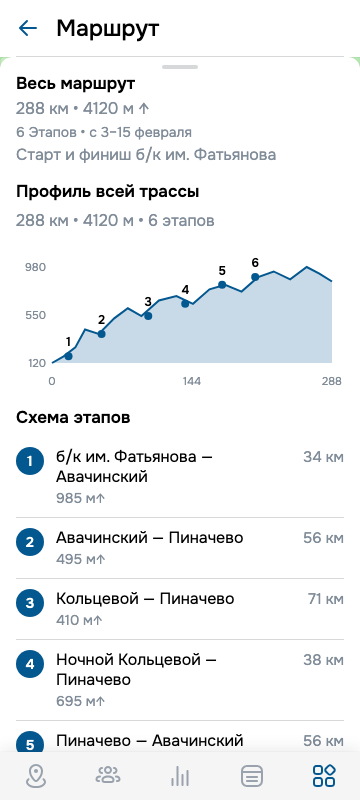
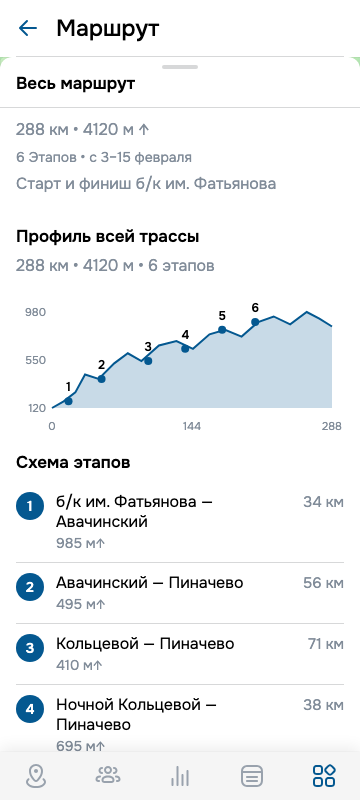
fix(v2): свёрнутая шторка Маршрута по контенту
Нижний снап по замеру peek-блока, Separator под заголовком, 12px снизу без лишнего padding.

diff --git a/src/components/route/RouteSheet.tsx b/src/components/route/RouteSheet.tsx
@@ -1,4 +1,4 @@
-import { Accordion, Subhead, Text, Title } from '@vkontakte/vkui'
+import { Accordion, Separator, Subhead, Text, Title } from '@vkontakte/vkui'
 import { useCallback, useEffect, useLayoutEffect, useRef, useState, type RefObject } from 'react'
 import type { RouteMapFilter, RouteSheetSnap } from '../../api/mocks/route.ts'
 import {
@@ -10,22 +10,32 @@ import {
 } from '../../api/mocks/route.ts'
 import { ElevationProfile } from './ElevationProfile.tsx'
 
-const SNAP_RATIO: Record<RouteSheetSnap, number> = {
-  collapsed: 0.22,
-  half: 0.5,
-  full: 1,
+const HALF_RATIO = 0.5
+
+function halfHeight(maxH: number): number {
+  return Math.round(maxH * HALF_RATIO)
 }
 
-function snapHeight(snap: RouteSheetSnap, maxH: number): number {
-  return Math.round(maxH * SNAP_RATIO[snap])
+function snapHeight(snap: RouteSheetSnap, maxH: number, collapsedH: number): number {
+  if (snap === 'collapsed') {
+    return Math.min(collapsedH, maxH)
+  }
+  if (snap === 'half') {
+    return halfHeight(maxH)
+  }
+  return maxH
 }
 
-function nearestSnap(visibleH: number, maxH: number): RouteSheetSnap {
-  const options: RouteSheetSnap[] = ['collapsed', 'half', 'full']
+function nearestSnap(visibleH: number, maxH: number, collapsedH: number): RouteSheetSnap {
+  const options: { snap: RouteSheetSnap; h: number }[] = [
+    { snap: 'collapsed', h: snapHeight('collapsed', maxH, collapsedH) },
+    { snap: 'half', h: snapHeight('half', maxH, collapsedH) },
+    { snap: 'full', h: snapHeight('full', maxH, collapsedH) },
+  ]
   let best: RouteSheetSnap = 'collapsed'
   let bestDelta = Number.POSITIVE_INFINITY
-  for (const snap of options) {
-    const delta = Math.abs(snapHeight(snap, maxH) - visibleH)
+  for (const { snap, h } of options) {
+    const delta = Math.abs(h - visibleH)
     if (delta < bestDelta) {
       bestDelta = delta
       best = snap
@@ -34,21 +44,27 @@ function nearestSnap(visibleH: number, maxH: number): RouteSheetSnap {
   return best
 }
 
-function snapFromVelocity(visibleH: number, velocityPxPerMs: number, maxH: number): RouteSheetSnap {
+function snapFromVelocity(
+  visibleH: number,
+  velocityPxPerMs: number,
+  maxH: number,
+  collapsedH: number,
+): RouteSheetSnap {
   const threshold = 0.35
+  const halfH = snapHeight('half', maxH, collapsedH)
   if (velocityPxPerMs > threshold) {
-    if (visibleH > snapHeight('half', maxH)) {
+    if (visibleH > halfH) {
       return 'half'
     }
     return 'collapsed'
   }
   if (velocityPxPerMs < -threshold) {
-    if (visibleH < snapHeight('half', maxH)) {
+    if (visibleH < halfH) {
       return 'half'
     }
     return 'full'
   }
-  return nearestSnap(visibleH, maxH)
+  return nearestSnap(visibleH, maxH, collapsedH)
 }
 
 type RouteSheetProps = {
@@ -74,13 +90,16 @@ function readTabbarTotalPx(): number {
 
 export function RouteSheet({ mapFilter, initialSnap, viewportRef, headerRef }: RouteSheetProps) {
   const [maxH, setMaxH] = useState(480)
+  const [collapsedH, setCollapsedH] = useState(160)
   const [snap, setSnap] = useState<RouteSheetSnap>(initialSnap ?? 'collapsed')
-  const [visibleH, setVisibleH] = useState(() => Math.round(480 * SNAP_RATIO.collapsed))
+  const [visibleH, setVisibleH] = useState(160)
   const [dragging, setDragging] = useState(false)
   const visibleRef = useRef(visibleH)
   visibleRef.current = visibleH
   const dragRef = useRef<{ startY: number; startVisible: number } | null>(null)
   const moveHistory = useRef<{ t: number; y: number }[]>([])
+  const grabRef = useRef<HTMLDivElement>(null)
+  const peekRef = useRef<HTMLDivElement>(null)
 
   useLayoutEffect(() => {
     const viewport = viewportRef.current
@@ -110,12 +129,28 @@ export function RouteSheet({ mapFilter, initialSnap, viewportRef, headerRef }: R
     }
   }, [viewportRef, headerRef])
 
+  useLayoutEffect(() => {
+    const grab = grabRef.current
+    const peek = peekRef.current
+    if (!grab || !peek) {
+      return
+    }
+    const measureCollapsed = () => {
+      setCollapsedH(grab.offsetHeight + peek.offsetHeight)
+    }
+    measureCollapsed()
+    const observer = new ResizeObserver(measureCollapsed)
+    observer.observe(grab)
+    observer.observe(peek)
+    return () => observer.disconnect()
+  }, [mapFilter])
+
   const applySnap = useCallback(
     (next: RouteSheetSnap) => {
       setSnap(next)
-      setVisibleH(snapHeight(next, maxH))
+      setVisibleH(snapHeight(next, maxH, collapsedH))
     },
-    [maxH],
+    [maxH, collapsedH],
   )
 
   useEffect(() => {
@@ -125,10 +160,10 @@ export function RouteSheet({ mapFilter, initialSnap, viewportRef, headerRef }: R
   }, [initialSnap, applySnap])
 
   useEffect(() => {
-    setVisibleH(snapHeight(snap, maxH))
-  }, [maxH, snap])
+    setVisibleH(snapHeight(snap, maxH, collapsedH))
+  }, [maxH, collapsedH, snap])
 
-  const minVisible = snapHeight('collapsed', maxH)
+  const minVisible = snapHeight('collapsed', maxH, collapsedH)
   const maxVisible = maxH
   const offsetY = maxH - visibleH
 
@@ -168,7 +203,7 @@ export function RouteSheet({ mapFilter, initialSnap, viewportRef, headerRef }: R
         velocity = (last.y - first.y) / dt
       }
     }
-    applySnap(snapFromVelocity(visibleRef.current, velocity, maxH))
+    applySnap(snapFromVelocity(visibleRef.current, velocity, maxH, collapsedH))
   }
 
   const isAll = mapFilter === 'all'
@@ -199,23 +234,43 @@ export function RouteSheet({ mapFilter, initialSnap, viewportRef, headerRef }: R
       }}
       {...(snap !== 'full' ? dragProps : {})}
     >
-      <div
-        className="route-sheet__grab"
-        {...(snap === 'full' ? dragProps : {})}
-      >
+      <div ref={grabRef} className="route-sheet__grab" {...(snap === 'full' ? dragProps : {})}>
         <span className="route-sheet__grab-bar" aria-hidden />
       </div>
-      <div className="route-sheet__scroll">
+      <div ref={peekRef} className="route-sheet__peek">
         {isAll ? (
           <>
             <Title level="3" className="route-sheet__title">
               {routeAllSummary.title}
             </Title>
-            <Text className="route-sheet__stats">
-              {routeAllSummary.distanceKm} км • {routeAllSummary.elevationGainM} м ↑
-            </Text>
-            <Subhead className="route-sheet__meta">{routeAllSummary.stagesLabel}</Subhead>
-            <Text className="route-sheet__subtitle">{routeAllSummary.subtitle}</Text>
+            <Separator className="route-sheet__title-separator" />
+            <div className="route-sheet__peek-stats">
+              <Text className="route-sheet__stats route-sheet__stats--primary">
+                {routeAllSummary.distanceKm} км • {routeAllSummary.elevationGainM} м ↑
+              </Text>
+              <Subhead className="route-sheet__meta">{routeAllSummary.stagesLabel}</Subhead>
+              <Text className="route-sheet__subtitle">{routeAllSummary.subtitle}</Text>
+            </div>
+          </>
+        ) : stage && stageDetail ? (
+          <>
+            <Title level="3" className="route-sheet__title">
+              {stageDetail.headline}
+            </Title>
+            <Separator className="route-sheet__title-separator" />
+            <div className="route-sheet__peek-stats">
+              <Text className="route-sheet__stats route-sheet__stats--primary">
+                {stageDetail.distanceKm} км • {stageDetail.elevationGainM} м ↑
+              </Text>
+              <Text className="route-sheet__subtitle">{stageDetail.startLabel}</Text>
+              <Text className="route-sheet__subtitle">{stageDetail.finishLabel}</Text>
+            </div>
+          </>
+        ) : null}
+      </div>
+      <div className="route-sheet__scroll">
+        {isAll ? (
+          <>
             {showProfile ? (
               <section className="route-sheet__section">
                 <Title level="3" className="route-sheet__section-title">
@@ -251,14 +306,6 @@ export function RouteSheet({ mapFilter, initialSnap, viewportRef, headerRef }: R
           </>
         ) : stage && stageDetail ? (
           <>
-            <Title level="3" className="route-sheet__title">
-              {stageDetail.headline}
-            </Title>
-            <Text className="route-sheet__stats">
-              {stageDetail.distanceKm} км • {stageDetail.elevationGainM} м ↑
-            </Text>
-            <Text className="route-sheet__subtitle">{stageDetail.startLabel}</Text>
-            <Text className="route-sheet__subtitle">{stageDetail.finishLabel}</Text>
             {showProfile ? (
               <section className="route-sheet__section">
                 <Title level="3" className="route-sheet__section-title">

diff --git a/src/index.css b/src/index.css
@@ -394,14 +394,37 @@ body {
   background: var(--vkui--color_separator_primary);
 }
 
+.route-sheet__peek {
+  flex: none;
+  padding: 0 16px 12px;
+}
+
 .route-sheet__scroll {
   flex: 1;
   min-height: 0;
-  padding: 0 16px 16px;
+  padding: 0 16px;
+}
+
+.route-sheet--full .route-sheet__scroll {
+  padding-bottom: 16px;
 }
 
 .route-sheet__title {
-  margin: 0 0 4px;
+  margin: 0;
+}
+
+.route-sheet__title-separator {
+  margin: 12px -16px;
+}
+
+.route-sheet__peek-stats {
+  display: flex;
+  flex-direction: column;
+  gap: 4px;
+}
+
+.route-sheet__stats--primary {
+  color: var(--vkui--color_text_primary);
 }
 
 .route-sheet__stats,
